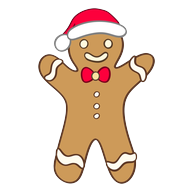
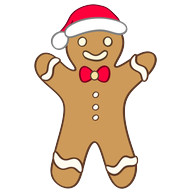
feat(advent): Michael's Preview B calls: Bowelidays all December, snow in every mode, gingerbread +5 % (plan 17, 1.16)
- countdownLine returns { text, image }: the Happy Bowelidays! image over the title every December day,
  the countdown line under it on 1-25 Dec (D16 amended, Preview B2)
- refreshSeasonHome keeps the snowfall on in season in every mode: runs, the Daily, both match halves,
  the online race, education runs; the line and the image stay on the home screen (Preview B3)
- the gingerbread pickup drawn at the probiotic's ink height + 5 % (185 px), same canvas and hitbox
- tests: the countdown's new shape, snow in a run and in a match half; the christmas smoke expects both

diff --git a/tests/adventScene.test.js b/tests/adventScene.test.js
@@ -13,21 +13,23 @@ const OFF = seasonalSkin('2026-11-15', T, ADVENT_ART);
 
 // --- countdownLine ---
 
-test('countdownLine: N sleeps on 1–23 Dec, one sleep on the 24th, Merry Christmas on the 25th, the Bowelidays image on 26–31 Dec', () => {
-  assert.deepEqual(countdownLine('2026-12-01', 'en', T), { text: '24 sleeps till Christmas' });
-  assert.deepEqual(countdownLine('2026-12-05', 'en', T), { text: '20 sleeps till Christmas' });
-  assert.deepEqual(countdownLine('2026-12-23', 'en', T), { text: '2 sleeps till Christmas' });
-  assert.deepEqual(countdownLine('2026-12-24', 'en', T), { text: '1 sleep till Christmas' }, 'one sleep, singular');
-  assert.deepEqual(countdownLine('2026-12-25', 'en', T), { text: 'Merry Christmas!' });
-  for (const d of ['2026-12-26', '2026-12-29', '2026-12-31']) assert.deepEqual(countdownLine(d, 'en', T), { image: 'bowelidays' }, d);
+test('countdownLine (Michael, 26 Nov): the Bowelidays image all December; under the title N sleeps on 1–23 Dec, one sleep on the 24th, Merry Christmas on the 25th, nothing after', () => {
+  const B = 'bowelidays';
+  assert.deepEqual(countdownLine('2026-12-01', 'en', T), { text: '24 sleeps till Christmas', image: B });
+  assert.deepEqual(countdownLine('2026-12-05', 'en', T), { text: '20 sleeps till Christmas', image: B });
+  assert.deepEqual(countdownLine('2026-12-23', 'en', T), { text: '2 sleeps till Christmas', image: B });
+  assert.deepEqual(countdownLine('2026-12-24', 'en', T), { text: '1 sleep till Christmas', image: B }, 'one sleep, singular');
+  assert.deepEqual(countdownLine('2026-12-25', 'en', T), { text: 'Merry Christmas!', image: B });
+  for (const d of ['2026-12-26', '2026-12-29', '2026-12-31']) assert.deepEqual(countdownLine(d, 'en', T), { text: null, image: B }, d);
   for (const d of ['2026-11-30', '2027-01-01', '2026-11-15', 'nonsense', undefined]) assert.equal(countdownLine(d, 'en', T), null, String(d));
 });
 
 test('countdownLine: zh-Hans takes its own strings; the Bowelidays image is the same for every locale (English only)', () => {
-  assert.deepEqual(countdownLine('2026-12-05', 'zh-Hans', T), { text: t('zh-Hans', 'countdownSleeps').replace('{n}', '20') });
-  assert.deepEqual(countdownLine('2026-12-24', 'zh-Hans', T), { text: t('zh-Hans', 'countdownSleep') });
-  assert.deepEqual(countdownLine('2026-12-25', 'zh-Hans', T), { text: t('zh-Hans', 'countdownChristmas') });
-  assert.deepEqual(countdownLine('2026-12-27', 'zh-Hans', T), { image: 'bowelidays' });
+  const B = 'bowelidays';
+  assert.deepEqual(countdownLine('2026-12-05', 'zh-Hans', T), { text: t('zh-Hans', 'countdownSleeps').replace('{n}', '20'), image: B });
+  assert.deepEqual(countdownLine('2026-12-24', 'zh-Hans', T), { text: t('zh-Hans', 'countdownSleep'), image: B });
+  assert.deepEqual(countdownLine('2026-12-25', 'zh-Hans', T), { text: t('zh-Hans', 'countdownChristmas'), image: B });
+  assert.deepEqual(countdownLine('2026-12-27', 'zh-Hans', T), { text: null, image: B });
   assert.ok(ADVENT_ART.files.bowelidays, 'the image key is a December file, so it loads in the one flight');
   for (const locale of ['en', 'zh-Hans']) assert.match(t(locale, 'countdownSleeps'), /\{n\}/, `${locale}: {n} in the plural line`);
 });
@@ -255,4 +257,55 @@ test('reapplySkin, on the flight\'s landing: the poop\'s current stock key shows
   s.reapplySkin();
   assert.equal(snows.length, 1, 'a second landing adds no second layer');
   assert.ok(s.homeRefreshed >= 2, 'the home (Bowelidays image) is refreshed too');
+});
+
+// Michael, 26 Nov: the December snow falls in every mode (runs, the Daily, both halves of a match, the online race,
+// 📚 runs), not only on the home screen; the countdown line and Happy Bowelidays! stay on the home screen alone.
+function seasonHome({ day = '2026-12-05', match = null, readyUiShown = true } = {}) {
+  const dots = [];
+  const text = { text: '', visible: false, setText(v) { this.text = v; return this; }, setVisible(v) { this.visible = v; return this; } };
+  const s = playScene({
+    match,
+    readyUiShown,
+    locale: 'en',
+    fieldW: 720,
+    registry: registry({ testMode: true, testPretendDay: day }),
+    countdownText: text,
+    countdownImage: null,
+    snowfall: null,
+    readyBoxes: { bowelidays: { x: 360, y: 290, width: 432, height: 77.6 } },
+    textures: { exists: () => true },
+    events: { on() {}, once() {}, off() {} },
+    add: {
+      image: (x, y, key) => {
+        const d = { key, active: true, visible: true, setDisplaySize: () => d, setAlpha: () => d, setDepth: () => d, setPosition: () => d, setVisible: (v) => ((d.visible = v), d), destroy() {} };
+        dots.push(d);
+        return d;
+      },
+    },
+  });
+  s.refreshSeasonHome();
+  const flakes = () => dots.filter((d) => d.key === 'snowflake' && d.visible).length;
+  const image = () => dots.some((d) => d.key === 'bowelidays' && d.visible);
+  return { s, text, flakes, image };
+}
+
+test('the December snow falls on the home screen and keeps falling in a run; the countdown line and the image show on the home screen only', () => {
+  const home = seasonHome();
+  assert.equal(home.flakes(), T.advent.snow.count);
+  assert.ok(home.text.visible && home.image(), 'home: the line and Happy Bowelidays!');
+  home.s.readyUiShown = false; // a run: setReadyUiVisible(false) calls refreshSeasonHome
+  home.s.refreshSeasonHome();
+  assert.equal(home.flakes(), T.advent.snow.count, 'in a run the snow keeps falling');
+  assert.ok(!home.text.visible && !home.image(), 'in a run: no line, no image');
+});
+
+test('a match half (versus, the online race) has the snow too, never the line or the image; off season nothing', () => {
+  const half = seasonHome({ match: { side: 0 } });
+  assert.equal(half.flakes(), T.advent.snow.count, 'a match half snows');
+  assert.ok(!half.text.visible && !half.image(), 'the Versus scene draws a match\'s join screen: no line, no image');
+  const off = seasonHome({ day: '2026-11-20' });
+  assert.equal(off.flakes(), 0);
+  assert.ok(!off.text.visible && !off.image());
+  assert.equal(off.s.snowfall, null);
 });

diff --git a/src/scenes/Play.js b/src/scenes/Play.js
@@ -547,7 +547,7 @@ export class Play extends Phaser.Scene {
       this.countdownText = this.add.text(b.x, b.y, '', { ...TEXT_STYLE, fontSize: `${T.advent.countdownPx}px`, strokeThickness: 8 }).setOrigin(0.5).setDepth(20);
     }
     this.snowfall = null;
-    this.countdownImage = null; // the Bowelidays image (26–31 Dec), made once its file has landed
+    this.countdownImage = null; // the Bowelidays image (all December), made once its file has landed
     this.readyUiShown = true; // setReadyUiVisible's last word: the switches rebuilt by refreshReadySwitches follow it
     this.toiletToggle = this.versusToggle = this.educationToggle = this.eduDueText = this.eduStreakText = null; // a restart destroyed the last ones
     this.buildReadySwitches();
@@ -4161,12 +4161,15 @@ export class Play extends Phaser.Scene {
   }
 
   /**
-   * December's home (plan 17, 1.12): the countdown line (countdownLine) and the snowfall, shown with the ready UI
-   * and only in season; a match's halves show neither (the Versus scene draws their join screen).
+   * December (plan 17, 1.12 and 1.14): the snowfall in every mode, on the home screen and in runs, a match's halves
+   * included (Michael, 26 Nov); the countdown line and Happy Bowelidays! on the home screen only (with the ready UI,
+   * never in a match's halves: the Versus scene draws their join screen). Nothing off season.
    */
   refreshSeasonHome() {
-    const season = !this.match && adventSeason(dailyDay(this.registry), T);
-    const line = season ? countdownLine(dailyDay(this.registry), this.locale, T) : null;
+    const day = dailyDay(this.registry);
+    const season = adventSeason(day, T);
+    const home = season && !this.match;
+    const line = home ? countdownLine(day, this.locale, T) : null;
     this.countdownText?.setText(line?.text ?? '').setVisible(Boolean(line?.text) && this.readyUiShown);
     const img = line?.image && this.textures.exists(line.image) ? line.image : null; // until the flight lands, nothing
     if (img && !this.countdownImage?.active) {
@@ -4179,7 +4182,7 @@ export class Play extends Phaser.Scene {
       this.snowfall.destroy();
       this.snowfall = null;
     }
-    this.snowfall?.setVisible(this.readyUiShown);
+    this.snowfall?.setVisible(true);
   }
 
   /** A world pickup's texture (plan 17, 1.11; D2): its December twin once loaded, else the stock one. The kind stays the item's data. */

diff --git a/src/logic.js b/src/logic.js
@@ -2439,17 +2439,19 @@ export function twinKey(stock, skin, fartFrame = 0, has = () => true) {
 }
 
 /**
- * December's line under the title (plan 17, 1.12): "N sleeps till Christmas" on 1–24 Dec, "Merry Christmas!"
- * on the 25th, and on 26–31 Dec the Happy Bowelidays! image above the title (1.14; English for every player, since
- * the pun has no Chinese). { text }, { image } (a texture key) or null.
+ * December's home lines (plan 17, 1.12 and 1.14): the Happy Bowelidays! image above the title every December day
+ * (Michael, 26 Nov; English for every player, since the pun has no Chinese), and under the title "N sleeps till
+ * Christmas" on 1–24 Dec and "Merry Christmas!" on the 25th, no line after. { text (or null), image (a texture
+ * key) } in season, null off season.
  */
 export function countdownLine(day, locale, tune) {
   if (!adventSeason(day, tune)) return null;
+  const image = 'bowelidays';
   const date = Number(day.slice(8, 10));
-  if (date > 25) return { image: 'bowelidays' };
+  if (date > 25) return { text: null, image };
   const sleeps = 25 - date;
-  if (sleeps === 0) return { text: t(locale, 'countdownChristmas') };
-  return { text: sleeps === 1 ? t(locale, 'countdownSleep') : t(locale, 'countdownSleeps').replace('{n}', String(sleeps)) };
+  if (sleeps === 0) return { text: t(locale, 'countdownChristmas'), image };
+  return { text: sleeps === 1 ? t(locale, 'countdownSleep') : t(locale, 'countdownSleeps').replace('{n}', String(sleeps)), image };
 }
 
 /** The Daily Dump's glyph on `day`: this visit's 🎅 in the season (the first variant if none is picked yet), else the 🌞. */

diff --git a/src/config.js b/src/config.js
@@ -537,7 +537,7 @@ export const TUNING = {
   advent: {
     seasonMonth: 12, // the season's month (1–12): adventSeason holds from day 1 of it
     seasonLastDay: 31, // the season's last day of that month (inclusive)
-    // "Happy Bowelidays!" (26–31 Dec, English for everyone; D16 (b)): its width as a share of the field, its centre's y
+    // "Happy Bowelidays!" (all December, Michael 26 Nov; English for everyone; D16 (b)): its width as a share of the field, its centre's y
     // (between the ceiling villi's tips, y 234, and the title's ink, y 345), and the PNG's height / width (947 x 170).
     bowelidays: { widthFrac: 0.6, y: 290, aspect: 170 / 947 },
     countdownPx: 30, // px font of the countdown line under the title (1–25 Dec; readyLayout's countdown box)

diff --git a/src/advent.js b/src/advent.js
@@ -44,6 +44,6 @@ export const ADVENT_ART = {
     gingerbread: 'assets/advent/gingerbread.png',
     'bacteria-santa': 'assets/advent/bacteria-santa.png',
     'pipe-snow': 'assets/advent/pipe-snow.png',
-    bowelidays: 'assets/advent/bowelidays.png', // 26–31 Dec over the title (countdownLine's image case)
+    bowelidays: 'assets/advent/bowelidays.png', // all December over the title (countdownLine's image)
   },
 };

diff --git a/tools/process_art.py b/tools/process_art.py
@@ -528,7 +528,7 @@ for _name, _src, _stock, _pre in ADVENT_TWINS:
     ENTRIES[_name] = {"kind": "twin", "src": _src, "stock": _stock, **({"pre": _pre} if _pre else {})}
 # The hatted bacterium is Michael's aligned file (meta/advent-previews/art-out/), copied into assets/src/ at 1.11 (D14).
 ENTRIES["bacteria-santa"] = {"kind": "item", "src": "Bad_Bacteria-santa-aligned.png", "body_like": "bacteria.png"}
-ENTRIES["gingerbread"] = {"kind": "item", "src": "gingerbread.png", "fit_height": "probiotic.png"}
+ENTRIES["gingerbread"] = {"kind": "item", "src": "gingerbread.png", "fit_height": 185}  # the probiotic's ink height (176) + 5 % (Michael, 26 Nov, Preview B3)
 ENTRIES["candy-cane"] = {"kind": "item", "src": "candy-cane.png"}
 # Layers: no knockout, cropped to the ink (fairy-lights' ink is already the strip, y 374 to 677 of 1536 x 1024).
 # Scale 0.5 (4x art to 2x) is the layer default; the Bowelidays and fairy-light scales are not settled (see 1.2's report).

diff --git a/assets/README.md b/assets/README.md
@@ -35,7 +35,7 @@ The player and items are Michael's drawings. Put a new source PNG in `assets/src
 | `fiber.png` | 192x192 | Bonus +3 pickup (+6 under a postbiotic; eaten with a probiotic up it makes one) | Transparent background, subject centred. Drawn at 0.5 scale. Hitbox is a 48 px circle (the whole 96 px drawing, `itemRadius`). Source: `assets/src/Fiber.png`. |
 | `advent/candy-cane.png` | 192x192 | December twin of `fiber.png` (a candy cane), on the world pickup only | Through `process_item`'s usual trim and fit (D11), same hitbox. December only (plan 17), loaded in season; the HUD, the cards and Stats keep the broccoli. Source: `assets/src/candy-cane.png`. |
 | `probiotic.png` | 192x192 | Good bacteria (5-pipe shield vs bad bacteria) | Same hitbox. Source: `assets/src/Good_Bacteria.png`. |
-| `advent/gingerbread.png` | 192x192 | December twin of `probiotic.png` (a gingerbread figure), on the world pickup only | Fitted to the probiotic's ink height (176 px; ink 117 x 176), centred; same hitbox. December only (plan 17); the shield icon, the cards and Stats keep the probiotic. Source: `assets/src/gingerbread.png`. |
+| `advent/gingerbread.png` | 192x192 | December twin of `probiotic.png` (a gingerbread figure), on the world pickup only | Fitted to the probiotic's ink height plus 5 % (185 px; ink 123 x 185; Michael, 26 Nov), centred; same hitbox. December only (plan 17); the shield icon, the cards and Stats keep the probiotic. Source: `assets/src/gingerbread.png`. |
 | `postbiotic.png` | 192x192 | Postbiotic HUD icon (replaces the probiotic counter icon while the ×2 multiplier runs) | Not a world pickup, so no hitbox. Same crop rules as the items. Source: `assets/src/Postbiotic.png`. |
 | `bacteria.png` | 192x192 | Bad bacteria (−3) | Same hitbox. Hair / flagellum are visual-only. Source: `assets/src/Bad_Bacteria.png`. |
 | `advent/bacteria-santa.png` | 196x196 | December twin of `bacteria.png` (Santa hat), on the world pickup only | Cut on the stock bacterium's crop square and centre (`process_art.py --body-like bacteria.png`), so the body and the hitbox stay put and the square grows where the hat sticks out. December only (plan 17). Source: `assets/src/Bad_Bacteria-santa-aligned.png`. |
